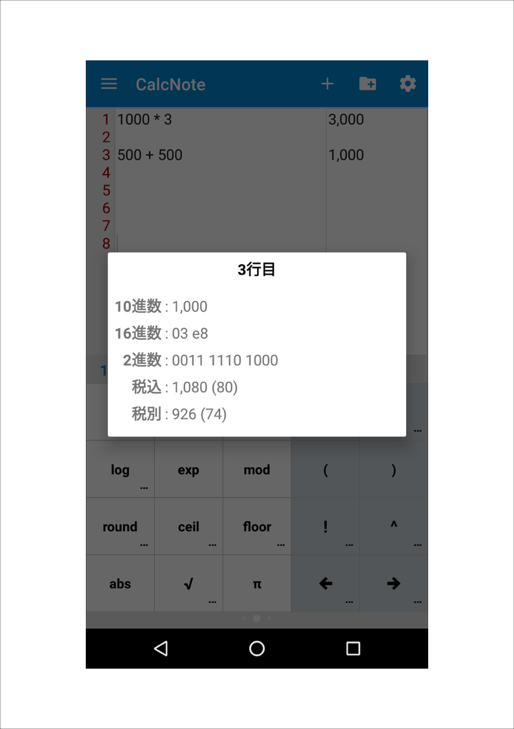
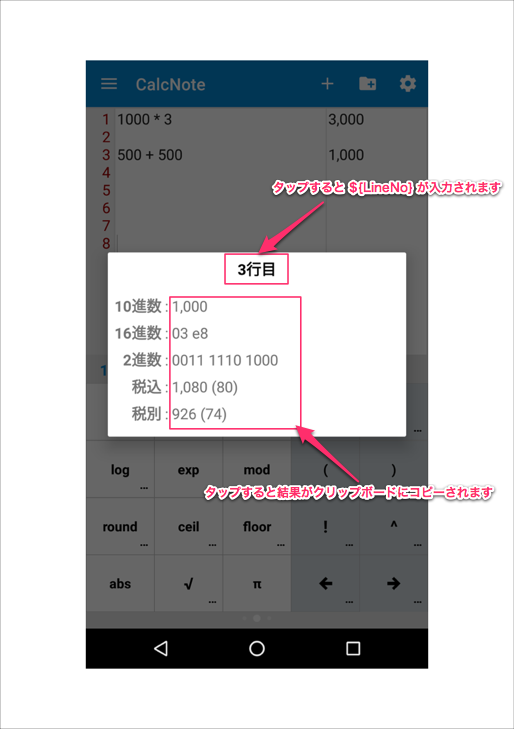
a

diff --git a/documents/ja/how2use.md b/documents/ja/how2use.md
@@ -40,8 +40,13 @@
 
 <img src="https://raw.githubusercontent.com/burton999dev/CalcNoteHelp/master/images/ja/line_no.png">
 
-## 編集領域と結果領域
+## 編集領域
 
+## 結果領域と総合計領域
+結果の数値をタップすると結果の2進数、16進数、消費税込、税別の金額が計算されポップアップで表示されます。それぞれの結果はタップすることでクリップボードにコピーされます。また行番号をタップすると編集領域に `${LineNo}` が入力されます。
+
+<img src="https://raw.githubusercontent.com/burton999dev/CalcNoteHelp/master/images/ja/result_popup1.png">
+<img src="https://raw.githubusercontent.com/burton999dev/CalcNoteHelp/master/images/ja/result_popup2.png">
 
 ## 入力パッド
 入力パッドは左右にスワイプすることで、切り替えることができます。現時点では３種類の入力パッドをサポートしています。各ボタンの右下に `...` 三点リーダが表示されているボタンはロングタップすると関連するボタンがポップアップ表示されます。例えば「削除ボタン」をロングタップすると「全削除ボタン」と「1行削除ボタン」が表示されます。
